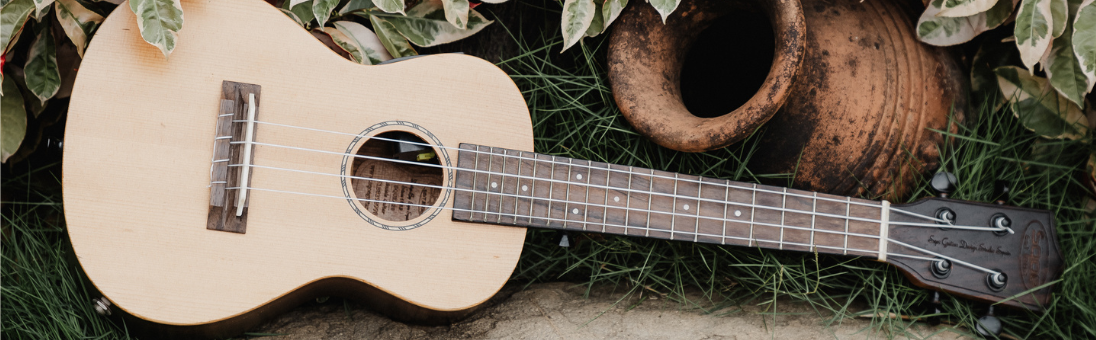
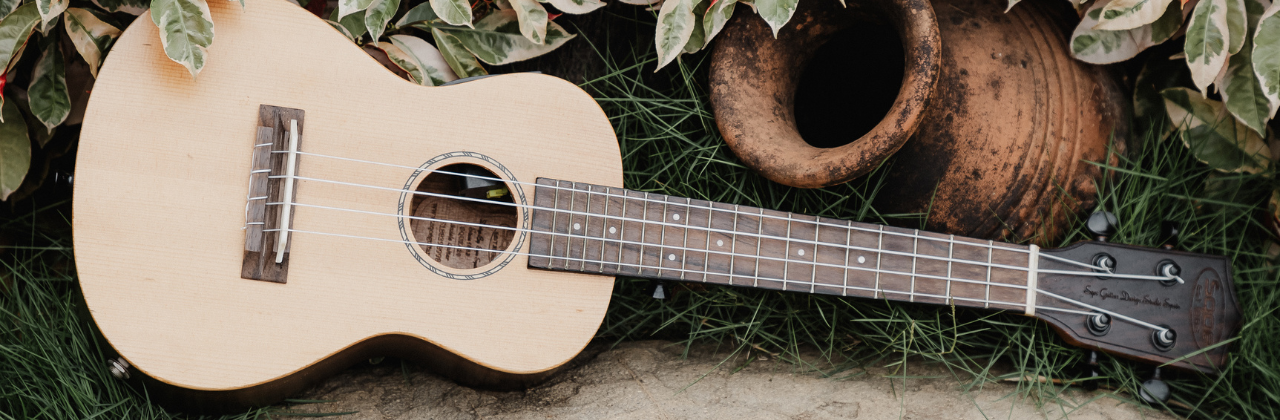
Almost Doe: Contacts, Profile (and therefore Financials) )

diff --git a/src/components/Contact.tsx b/src/components/Contact.tsx
@@ -16,17 +16,34 @@ export default function Contact() {
         }));
     };
 
-    const handleSubmit = (e: FormEvent) => {
+    const handleSubmit = async (e: FormEvent) => {
         e.preventDefault();
+
         // Implement your logic to handle form submission, e.g., sending data to a server
-        console.log('Form data:', formData);
-        // Clear the form after submission
-        setFormData({
-            name: '',
-            email: '',
-            subject: '',
-            message: '',
-        });
+        try {
+            const response = await fetch('your-api-endpoint', {
+                method: 'POST',
+                headers: {
+                    'Content-Type': 'application/json',
+                },
+                body: JSON.stringify(formData),
+            });
+
+            if (response.ok) {
+                console.log('Form data submitted successfully');
+                // Clear the form after successful submission
+                setFormData({
+                    name: '',
+                    email: '',
+                    subject: '',
+                    message: '',
+                });
+            } else {
+                console.error('Error submitting form data');
+            }
+        } catch (error) {
+            console.error('Error:', error);
+        }
     };
 
     return (
@@ -35,9 +52,11 @@ export default function Contact() {
                 {/* Left half - Title and Paragraph */}
                 <div style={{ flex: 1, textAlign: 'left', marginRight: '20px' }}>
                     <h2>Contact Us</h2>
-                    <p>
-                        Feel free to reach out to us with any questions, feedback, or inquiries. We'll get back to you as soon as possible.
-                    </p>
+                    <p>Please fill out the form to send us an email.</p>
+                    <h3>E-mail:</h3>
+                    <p>customerservice@yourmusicemails.com</p>
+                    <h3>Phone:</h3>
+                    <p>(905)-316-7831</p>
                 </div>
 
                 {/* Right half - Contact Form */}
@@ -45,20 +64,51 @@ export default function Contact() {
                     {/* Form */}
                     <form style={{ display: 'flex', flexDirection: 'column' }} onSubmit={handleSubmit}>
                         {/* Name input */}
-                        <label htmlFor="name">Name:</label>
-                        <input type="text" id="name" name="name" value={formData.name} onChange={handleChange} required />
+                        <input
+                            type="text"
+                            id="name"
+                            name="name"
+                            value={formData.name}
+                            onChange={handleChange}
+                            required
+                            placeholder="Name"
+                            className="input-field"
+                        />
 
                         {/* Email input */}
-                        <label htmlFor="email">Email:</label>
-                        <input type="email" id="email" name="email" value={formData.email} onChange={handleChange} required />
+                        <input
+                            type="email"
+                            id="email"
+                            name="email"
+                            value={formData.email}
+                            onChange={handleChange}
+                            required
+                            placeholder="Email"
+                            className="input-field"
+                        />
 
                         {/* Subject input */}
-                        <label htmlFor="subject">Subject:</label>
-                        <input type="text" id="subject" name="subject" value={formData.subject} onChange={handleChange} required />
+                        <input
+                            type="text"
+                            id="subject"
+                            name="subject"
+                            value={formData.subject}
+                            onChange={handleChange}
+                            required
+                            placeholder="Subject"
+                            className="input-field"
+                        />
 
                         {/* Message input */}
-                        <label htmlFor="message">Message:</label>
-                        <textarea id="message" name="message" value={formData.message} onChange={handleChange} required />
+                        <textarea
+                            id="message"
+                            name="message"
+                            value={formData.message}
+                            onChange={handleChange}
+                            required
+                            placeholder="Message"
+                            className="input-field"
+                        />
 
                         {/* Submit button */}
                         <button className="custom2-btn" type="submit">Submit</button>

diff --git a/src/css/index.css b/src/css/index.css
@@ -27,7 +27,7 @@
   --body-font-family:             'Chewy', cursive, Inter, system-ui, Avenir, Helvetica, Arial, sans-serif;
   --title-font-family:            'Chewy', cursive, Inter, system-ui, Avenir, Helvetica, Arial, sans-serif;
 
-  --h1-font-size:                 56px;
+  --h1-font-size:                 52px;
   --h2-font-size:                 46px;
   --h3-font-size:                 32px;
   --h4-font-size:                 28px;
@@ -35,7 +35,7 @@
   --h6-font-size:                 22px;
   --p-font-size:                  20px;
   --menu-font-size:               14px;
-  --nav-font-size:                24px;
+  --nav-font-size:                22px;
   --btn-font-size:                18px;
   --copyright-font-size:          16px;
 
@@ -73,7 +73,7 @@ h1 {
 }
 
 .company-logo {
-  max-height: 100px; /* Adjust the max height of your logo */
+  max-height: 80px; /* Adjust the max height of your logo */
 }
 
 .navbar {
@@ -120,12 +120,12 @@ h1 {
   color: white;
   font-size: var(--nav-font-size);
   text-transform: uppercase;
-  padding: 8px 16px;
-  border-radius: 20px;
+  padding: 6px 10px;
+  border-radius: 30px;
   background: none;
-  border-radius: 8px;
   border: none;
   font-weight: 500;
+  margin: 4px 2px;
   font-family: inherit;
   cursor: pointer;
   transition: border-color 0.25s;
@@ -136,9 +136,66 @@ h1 {
   background: #F3D569;
 }
 
+.custom-btn {
+  background-color: var(--custom-btn-bg-color) !important;
+  color: white;
+  font-size: var(--nav-font-size);
+  text-transform: uppercase;
+  padding: 6px 10px;
+  border-radius: 30px;
+  background: none;
+  border: none;
+  font-weight: 500;
+  margin: 4px 2px;
+  font-family: inherit;
+  cursor: pointer;
+  transition: border-color 0.25s;
+}
+.custom-btn:hover {
+  font-weight: bold;
+  color: #262140 !important;
+  background: #F3D569;
+}
 .spacer {
   padding-right: 30px;
 }
+
+.input-field {
+  background-color: var(--secondary-color);
+  font-weight: bolder;
+  color: var(--primary-color);
+  border: none;
+  padding: 10px;
+  margin-bottom: 10px;
+}
+
+/* Apply specific styles to the placeholder text */
+.input-field::placeholder {
+  color: var(--link-hover-color);
+}
+
+
+/* Table Styles */
+table {
+  border-collapse: collapse;
+  width: 100%;
+}
+
+th, td {
+  border: 2px solid var(--primary-color);
+  padding: 8px;
+  text-align: left;
+}
+
+th {
+  background-color: transparent;
+  color: var(--primary-color);
+}
+
+td {
+  color: var(--primary-color);
+}
+
 
 @media (prefers-color-scheme: light) {
   :root {

diff --git a/src/components/Profiles.tsx b/src/components/Profiles.tsx
@@ -1,5 +1,94 @@
+import React, { useState } from 'react';
+
+interface Profile {
+  firstName: string;
+  lastName: string;
+  profileType: string;
+}
+
 export default function Profiles() {
-    return (
-        <>Profiles page</>
-    );
+  const [firstName, setFirstName] = useState('');
+  const [lastName, setLastName] = useState('');
+  const [profileType, setProfileType] = useState('Developer');
+  const [profiles, setProfiles] = useState<Array<Profile>>([]);
+
+  const handleSubmit = (e: React.FormEvent) => {
+    e.preventDefault();
+
+    // Update profiles with new entry
+    setProfiles((prevProfiles) => [
+      ...prevProfiles,
+      {
+        firstName,
+        lastName,
+        profileType,
+      },
+    ]);
+
+    // Clear form inputs
+    setFirstName('');
+    setLastName('');
+    setProfileType('Developer');
+  };
+
+  return (
+    <div>
+      {/* Profile Form */}
+      <form onSubmit={handleSubmit}>
+        <div>
+          <input
+            type="text"
+            id="firstName"
+            placeholder="First Name"
+            value={firstName}
+            onChange={(e) => setFirstName(e.target.value)}
+            required
+            className="input-field"
+          />
+        </div>
+
+        <div>
+          <input
+            type="text"
+            id="lastName"
+            placeholder="Enter your last name"
+            value={lastName}
+            onChange={(e) => setLastName(e.target.value)}
+            required
+            className="input-field"
+          />
+        </div>
+
+        <div>
+          <select id="profileType" value={profileType} onChange={(e) => setProfileType(e.target.value)} required className="input-field">
+            <option value="Teacher">Teacher</option>
+            <option value="Student">Student</option>
+            <option value="Other">Other</option>
+          </select>
+        </div>
+
+        <button className="custom-btn" type="submit">Submit</button>
+      </form>
+
+      {/* Profiles Table */}
+      <table>
+        <thead>
+          <tr>
+            <th>First Name</th>
+            <th>Last Name</th>
+            <th>Profile Type</th>
+          </tr>
+        </thead>
+        <tbody>
+          {profiles.map((profile, index) => (
+            <tr key={index}>
+              <td>{profile.firstName}</td>
+              <td>{profile.lastName}</td>
+              <td>{profile.profileType}</td>
+            </tr>
+          ))}
+        </tbody>
+      </table>
+    </div>
+  );
 }

diff --git a/src/components/Home.tsx b/src/components/Home.tsx
@@ -4,9 +4,9 @@ import piano from "../assets/img/PianoHands.png";
 import guitarline from "../assets/img/GuitarsLinedUp.png";
 export default function Home() {
     return (
-        <div style={{ display: 'flex', justifyContent: 'center', alignItems: 'center', flexDirection: 'column', marginTop: '170px' }}>
+        <div className='content'style={{ display: 'flex', justifyContent: 'center', alignItems: 'center', flexDirection: 'column', marginTop: '170px' }}>
             {/* Landscape Photo */}
-            <img src={guitar} alt="Guitar in Green Leaves" style={{ maxWidth: '100%', maxHeight: '270px', marginBottom: '20px', paddingLeft: '60px'}} />
+            <img src={guitar} alt="Guitar in Green Leaves" style={{ maxWidth: '1000px', maxHeight: '300px', marginBottom: '20px', paddingLeft: '60px'}} />
 
             {/* Text paragraph and three square photos next to each other */}
             <div style={{ display: 'flex', paddingLeft: '100px', paddingRight: '100px'}}>
